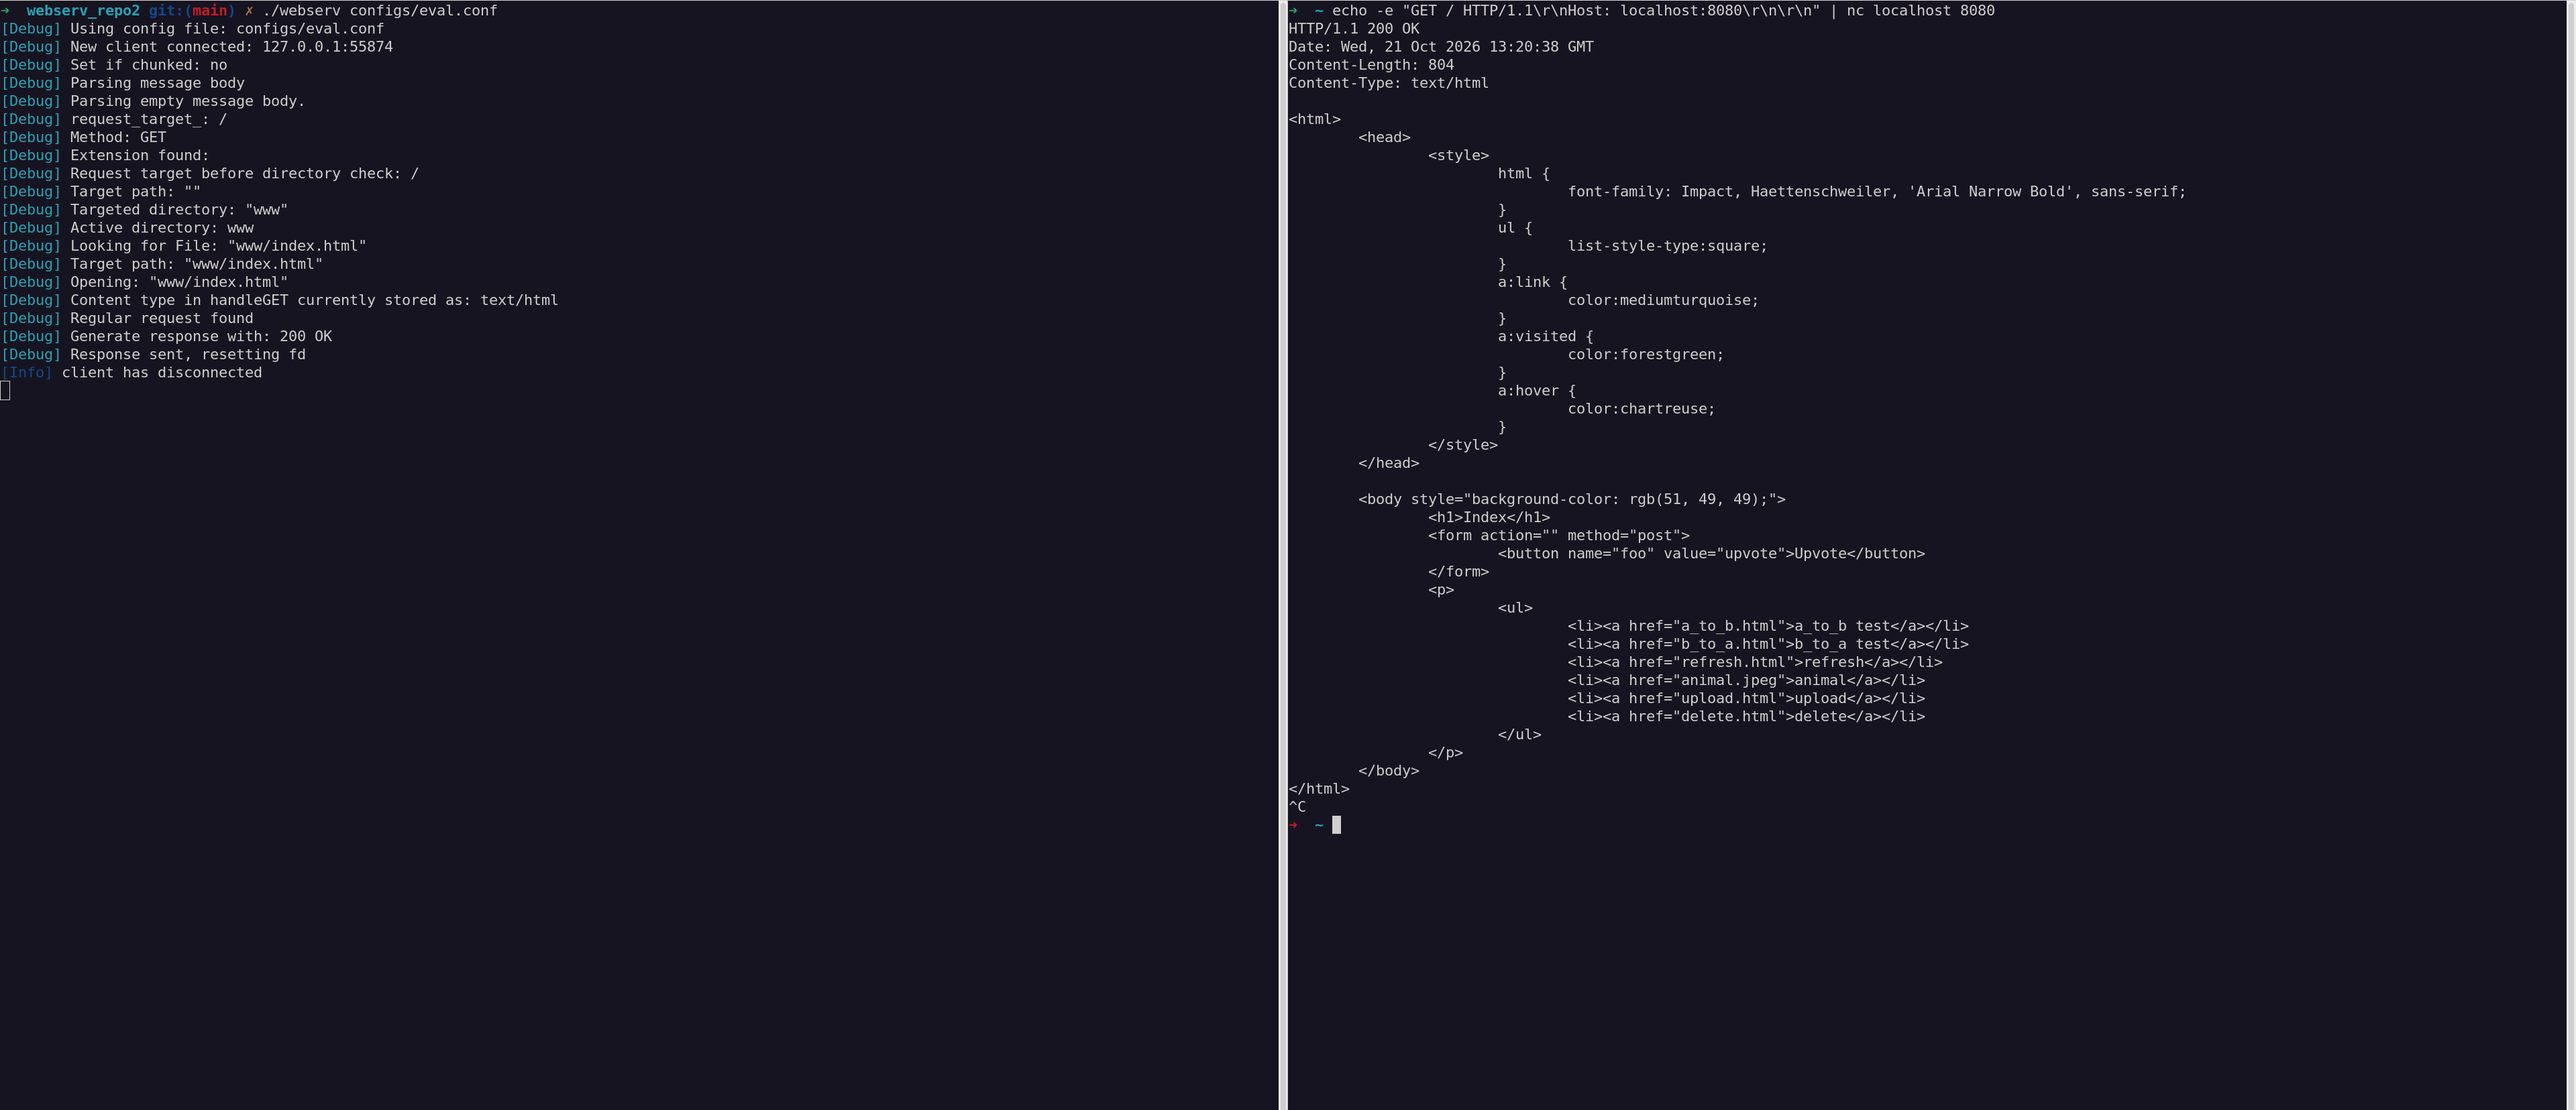
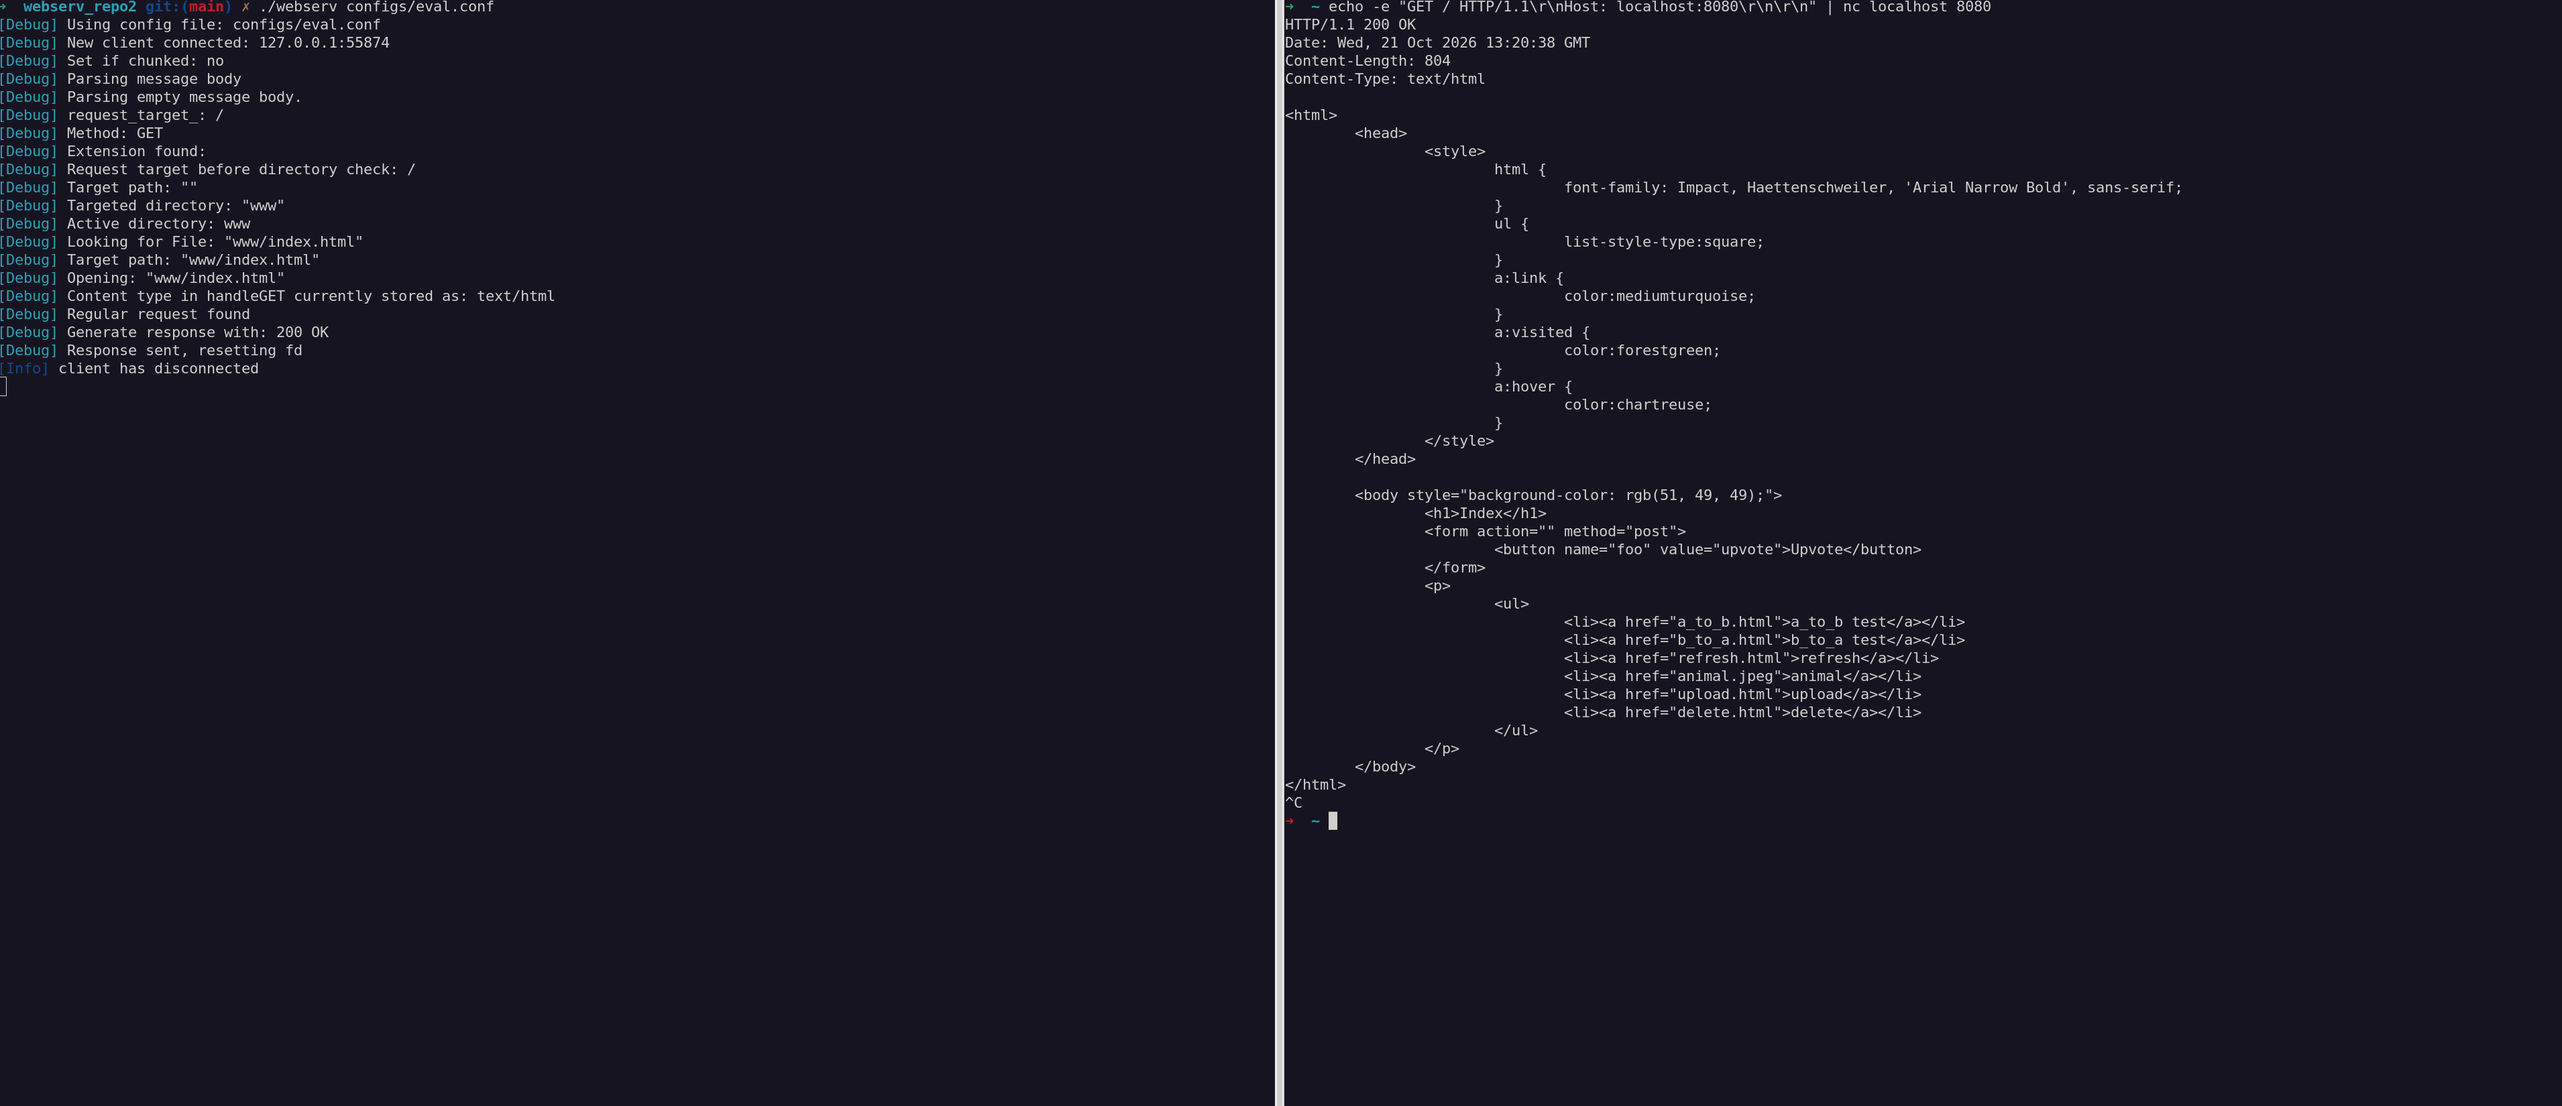
picture resizing works again; added philosophers

diff --git a/my-app/src/components/PortfolioPage.jsx b/my-app/src/components/PortfolioPage.jsx
@@ -6,6 +6,7 @@ import f2h_pic from '../assets/f2h_screencap2.png'
 import cub3d_pic from '../assets/cub3d_screencap2.png'
 import webserv_pic from '../assets/webserv_cap.png'
 import transcendence_pic from '../assets/transcendence_screencap.png'
+import philo_pic from '../assets/philo_screencap.png'
 
 export default function PortfolioPage(){
 	return (
@@ -20,6 +21,7 @@ export default function PortfolioPage(){
 				ProjectURL={"https://github.com/manon-cg/minishell"}
 				ProjectDescription={"Team project to create a Unix shell in C that functions like Bash. Focus points were parsing command line input, process forking, I/O redirection and basic signal handling."}
 				ProjNumber="0"
+				PicNarrow={false}
 				/>
 				<ProjectPreview
 				ProjectName={"cub3d"}
@@ -27,6 +29,7 @@ export default function PortfolioPage(){
 				ProjectStack={"C, MLX42 (graphics library)"}
 				ProjectDescription={"Team project to create a Wolfenstein-like 3D game where you can walk through a maze of blocks in first person view. Involved parsing maps, ray casting the visuals using vector mathematics, and allowing smooth player movement, using the school graphical library (MLX42)."}
 				ProjNumber="1"
+				PicNarrow={false}
 				/>
 				<ProjectPreview
 				ProjectName={"so_long"}
@@ -34,6 +37,7 @@ export default function PortfolioPage(){
 				ProjectStack={"C, MLX42 (graphics library)"}
 				ProjectDescription={"Solo project to build a 2D game in C, using the school's MLX42 graphic library. The user can load a map that will be parsed for walkability and rendered for the player, who needs to exit through the door after collecting all collectibles."}
 				ProjNumber="2"
+				PicNarrow={false}
 				/>
 				<ProjectPreview
 				ProjectName={"webserv"}
@@ -41,6 +45,7 @@ export default function PortfolioPage(){
 				ProjectStack={"C++, HTTP, HTML/CSS"}
 				ProjectDescription={"Team project to build a functioning HTTP 1.1 server in C++. This involved research into protocols and sockets, parsing of configuration files and HTTP requests, and building the correct responses following request execution."}
 				ProjNumber="3"
+				PicNarrow={false}
 				/>
 				<ProjectPreview
 				ProjectName={"ft_transcendence"}
@@ -49,6 +54,16 @@ export default function PortfolioPage(){
 				ProjectURL={"https://github.com/SmokedSeaSalt/Transcendence"}
 				ProjectDescription={"Team project to build a web application. We chose a multiplayer speed-typing game, where players are connected together in a room using sockets that pass their progress to each other."}
 				ProjNumber="4"
+				PicNarrow={false}
+				/>
+				<ProjectPreview
+				ProjectName={"philosophers"}
+				ProjectPic={philo_pic}
+				ProjectStack={"C, multithreading"}
+				// ProjectURL={""}
+				ProjectDescription={"Solo project in C to implement the dining philophers problem."}
+				ProjNumber="5"
+				PicNarrow={true}
 				/>
 			</div>
 			<div style={{backgroundColor: "#ffd5ff", width: "100%", height: "100%", alignContent: "center", textAlign: "center", justifyContent: "center", justifyItems: "center"}}><h2>Game Jams</h2></div>
@@ -60,6 +75,7 @@ export default function PortfolioPage(){
 				ProjectURL={"https://plutopu.itch.io/sounds-familiar"}
 				ProjectDescription={"Game built with a team in Godot during a weeklong game jam."}
 				ProjNumber="6"
+				PicNarrow={true}
 			/>
 			<ProjectPreview
 				ProjectName={"CODAM Game Jam"}
@@ -68,6 +84,7 @@ export default function PortfolioPage(){
 				ProjectURL={"https://plutopu.itch.io/farm2harm"}
 				ProjectDescription={"Game built with a team in Godot during a weeklong game jam."}
 				ProjNumber="7"
+				PicNarrow={false}
 			/>
 			</div>
 			{/* <div className="experience-block">Websites</div> */}

diff --git a/my-app/src/components/ProjectPreview.jsx b/my-app/src/components/ProjectPreview.jsx
@@ -1,6 +1,6 @@
+import ProjectImage from "./ProjectImage";
 
-
-export default function ProjectPreview({ ProjectName, ProjectPic, ProjectStack, ProjectURL, ProjectDescription, ProjNumber }){
+export default function ProjectPreview({ ProjectName, ProjectPic, ProjectStack, ProjectURL, ProjectDescription, ProjNumber, PicNarrow }){
 	
 	const bg_colours = ["#ad88bc", "#bd9ccc"];
 	const preview_style = {
@@ -11,7 +11,15 @@ export default function ProjectPreview({ ProjectName, ProjectPic, ProjectStack, 
 	return (
 		<div style={preview_style}>
 			<div style={{backgroundColor: "white", border: "1px solid #bd9ccc"}}><h3 style={{margin: "0px", padding: "4px"}}>{ProjectName}</h3></div>
-			<div><a href={ProjectURL}><img id="preview-img" alt="project preview" data-src={ProjectPic} style={{width: "100%", aspectRatio: "600 / 260"}}></img></a></div>
+			<div style={{overflow: "hidden", aspectRatio: "600 / 260", position: "relative", width: "100%"}}>
+				<a href={ProjectURL}>
+					<ProjectImage
+						ProjectPic={ProjectPic}
+						PicNarrow={PicNarrow}
+					/>
+				</a>
+			</div>
+			{/* todo: replace src with data-src to enable lazy loading;  */}
 			<div style={{paddingRight: "10px", paddingLeft: "10px"}}>
 				<p align="justify">{ProjectDescription}</p>
 				<p align="left"><b>Stack:</b> {ProjectStack}</p>

diff --git a/my-app/src/App.css b/my-app/src/App.css
@@ -146,9 +146,27 @@
   opacity: 50%;
 } */
 
-#preview-img:hover{
+.preview-img:hover{
   opacity: 50%;
 }
+
+
+.preview-img{
+  position: absolute;
+  left: 50%;
+  top: 50%;
+  height: 100%;
+  width: auto;
+  -webkit-transform: translate(-50%,-50%);
+      -ms-transform: translate(-50%,-50%);
+          transform: translate(-50%,-50%);
+}
+
+.preview-img-narrow{
+  width: 100%;
+  height: auto;
+}
+
 
 /* @keyframes App-logo-spin {
   from {

diff --git a/my-app/src/components/ProjectImage.jsx b/my-app/src/components/ProjectImage.jsx
@@ -1,0 +1,12 @@
+
+/* return an image resized based on whether the input image was narrower than the required
+ratio or not.
+*/
+export default function ProjectImage({ ProjectPic, PicNarrow }){
+	
+	if (PicNarrow) {
+		return (<img className={`preview-img preview-img-narrow`} alt="project preview" src={ProjectPic} />);
+	}
+	return (<img className={`preview-img`} alt="project preview" src={ProjectPic} />);
+	
+}
